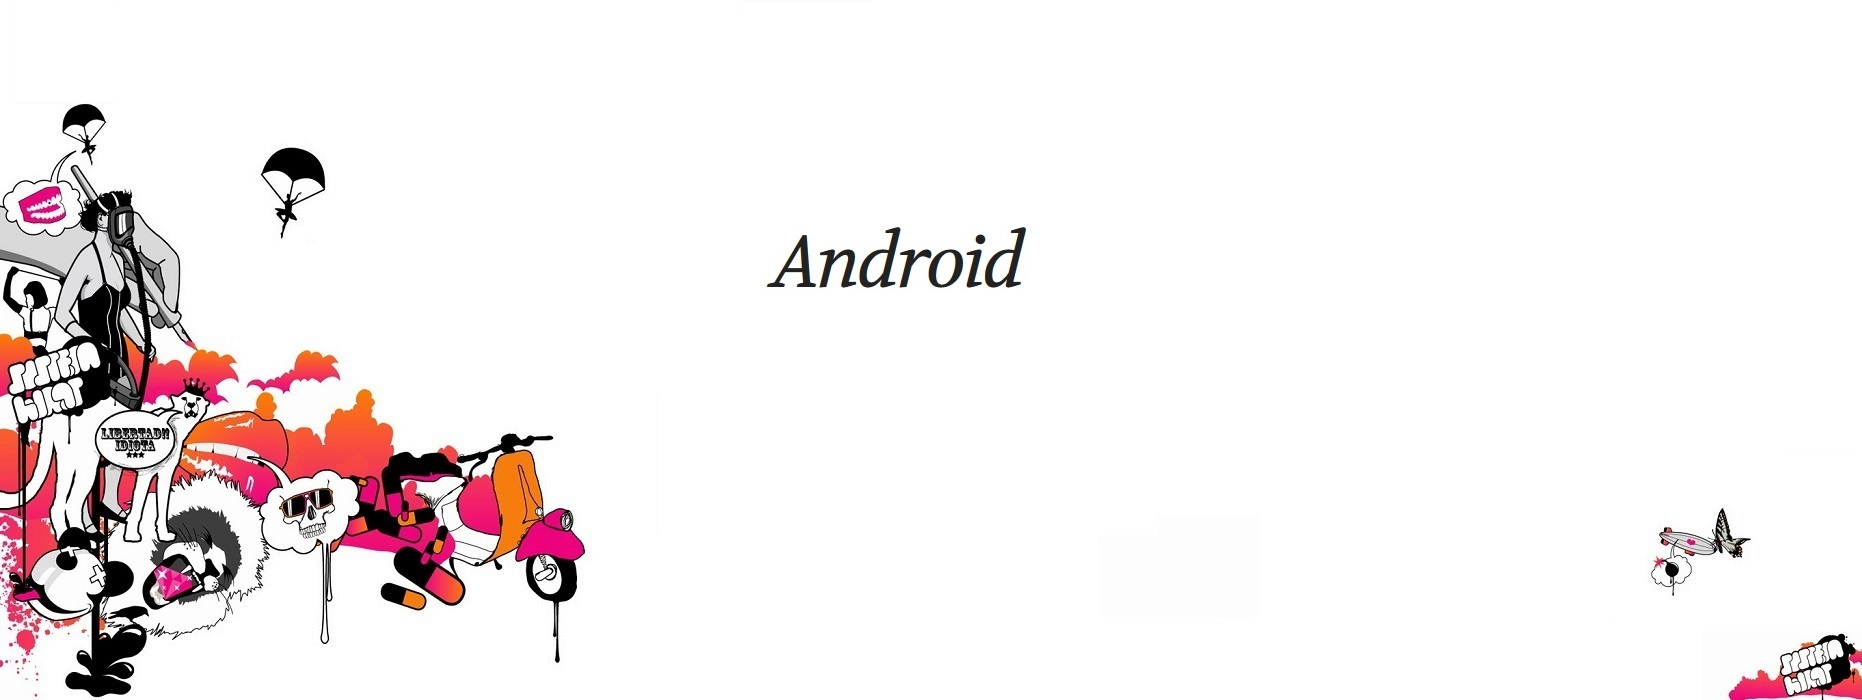
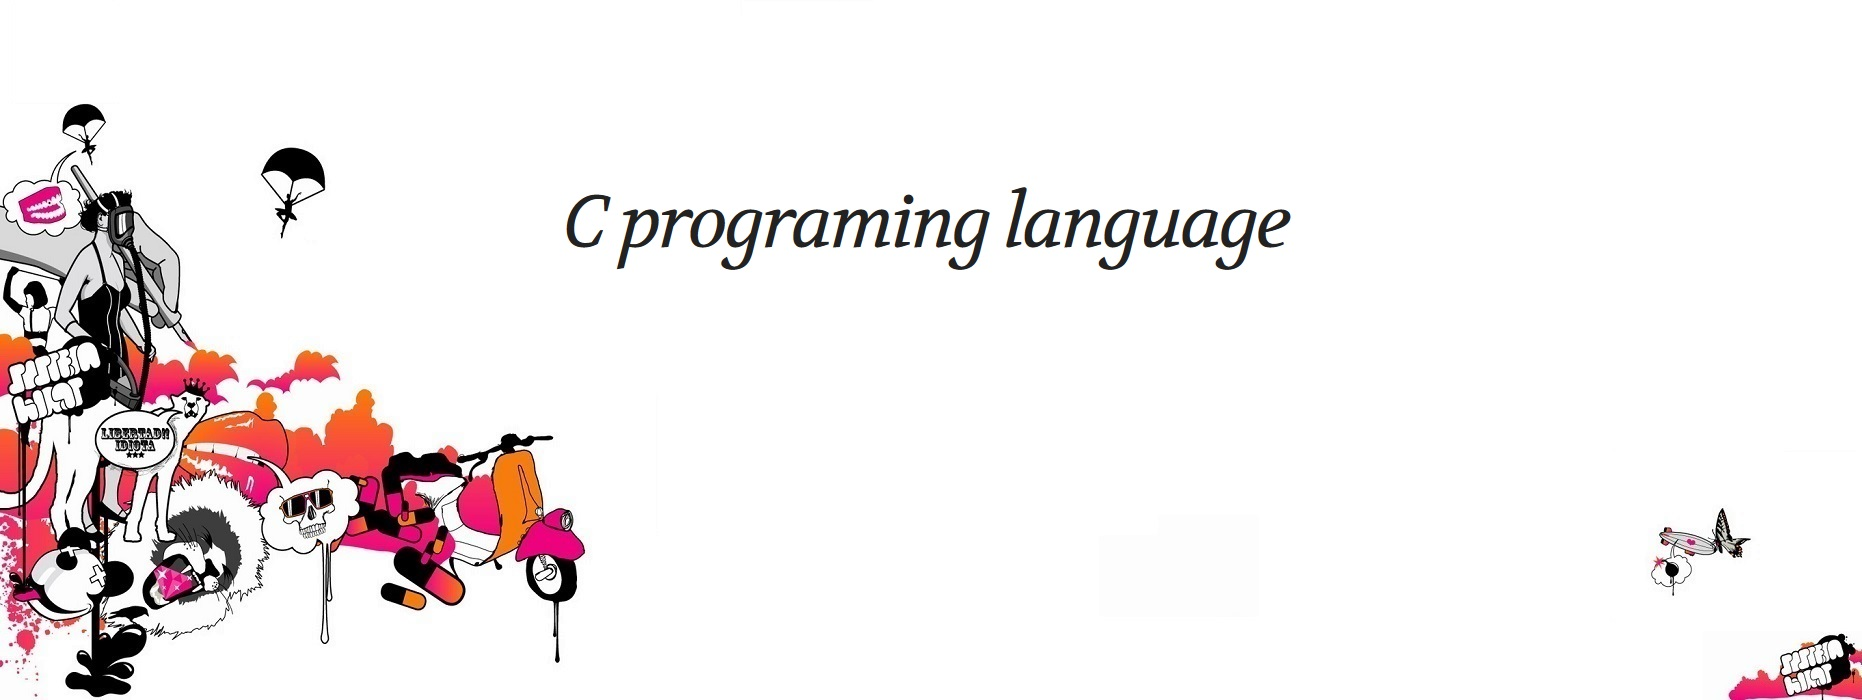
cpp.jpg
cpp.jpg

Changed region(s): [[0.2803, 0.27, 0.7164, 0.42]]

diff --git a/cpp.html b/cpp.html
@@ -3,7 +3,7 @@ layout: page
 permalink: /cpp/
 title: C programing language
 image:
-  feature: about.jpg
+  feature: cpp.jpg
 ---
 
 <ul class="post-list">
